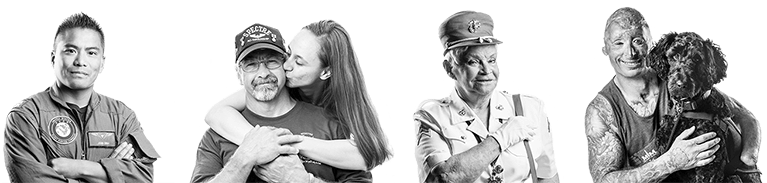
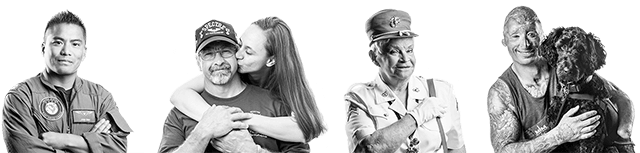
Add new mobile images

diff --git a/va-gov/includes/veteran-banner.html b/va-gov/includes/veteran-banner.html
@@ -1,7 +1,7 @@
 <div class="veteran-banner">
   <div class="veteran-banner-image">
     <picture>
-      <source srcset="/img/homepage/veterans-banner-mobile-1.png 767w, /img/homepage/veterans-banner-mobile-2.png 1316w" media="(max-width: 767px)" />
+      <source srcset="/img/homepage/veterans-banner-mobile-1.png 640w, /img/homepage/veterans-banner-mobile-1.png 920w, /img/homepage/veterans-banner-mobile-2.png 1316w" media="(max-width: 767px)" />
       <source srcset="/img/homepage/veterans-banner-tablet-1.png 1008w, /img/homepage/veterans-banner-tablet-2.png 1887w" media="(max-width: 1008px)" />
       <img src="/img/homepage/veterans-banner-desktop-1.png" srcset="/img/homepage/veterans-banner-desktop-1.png 1280w, /img/homepage/veterans-banner-desktop-2.png 2494w" alt="Veteran portraits" />
     </picture>
